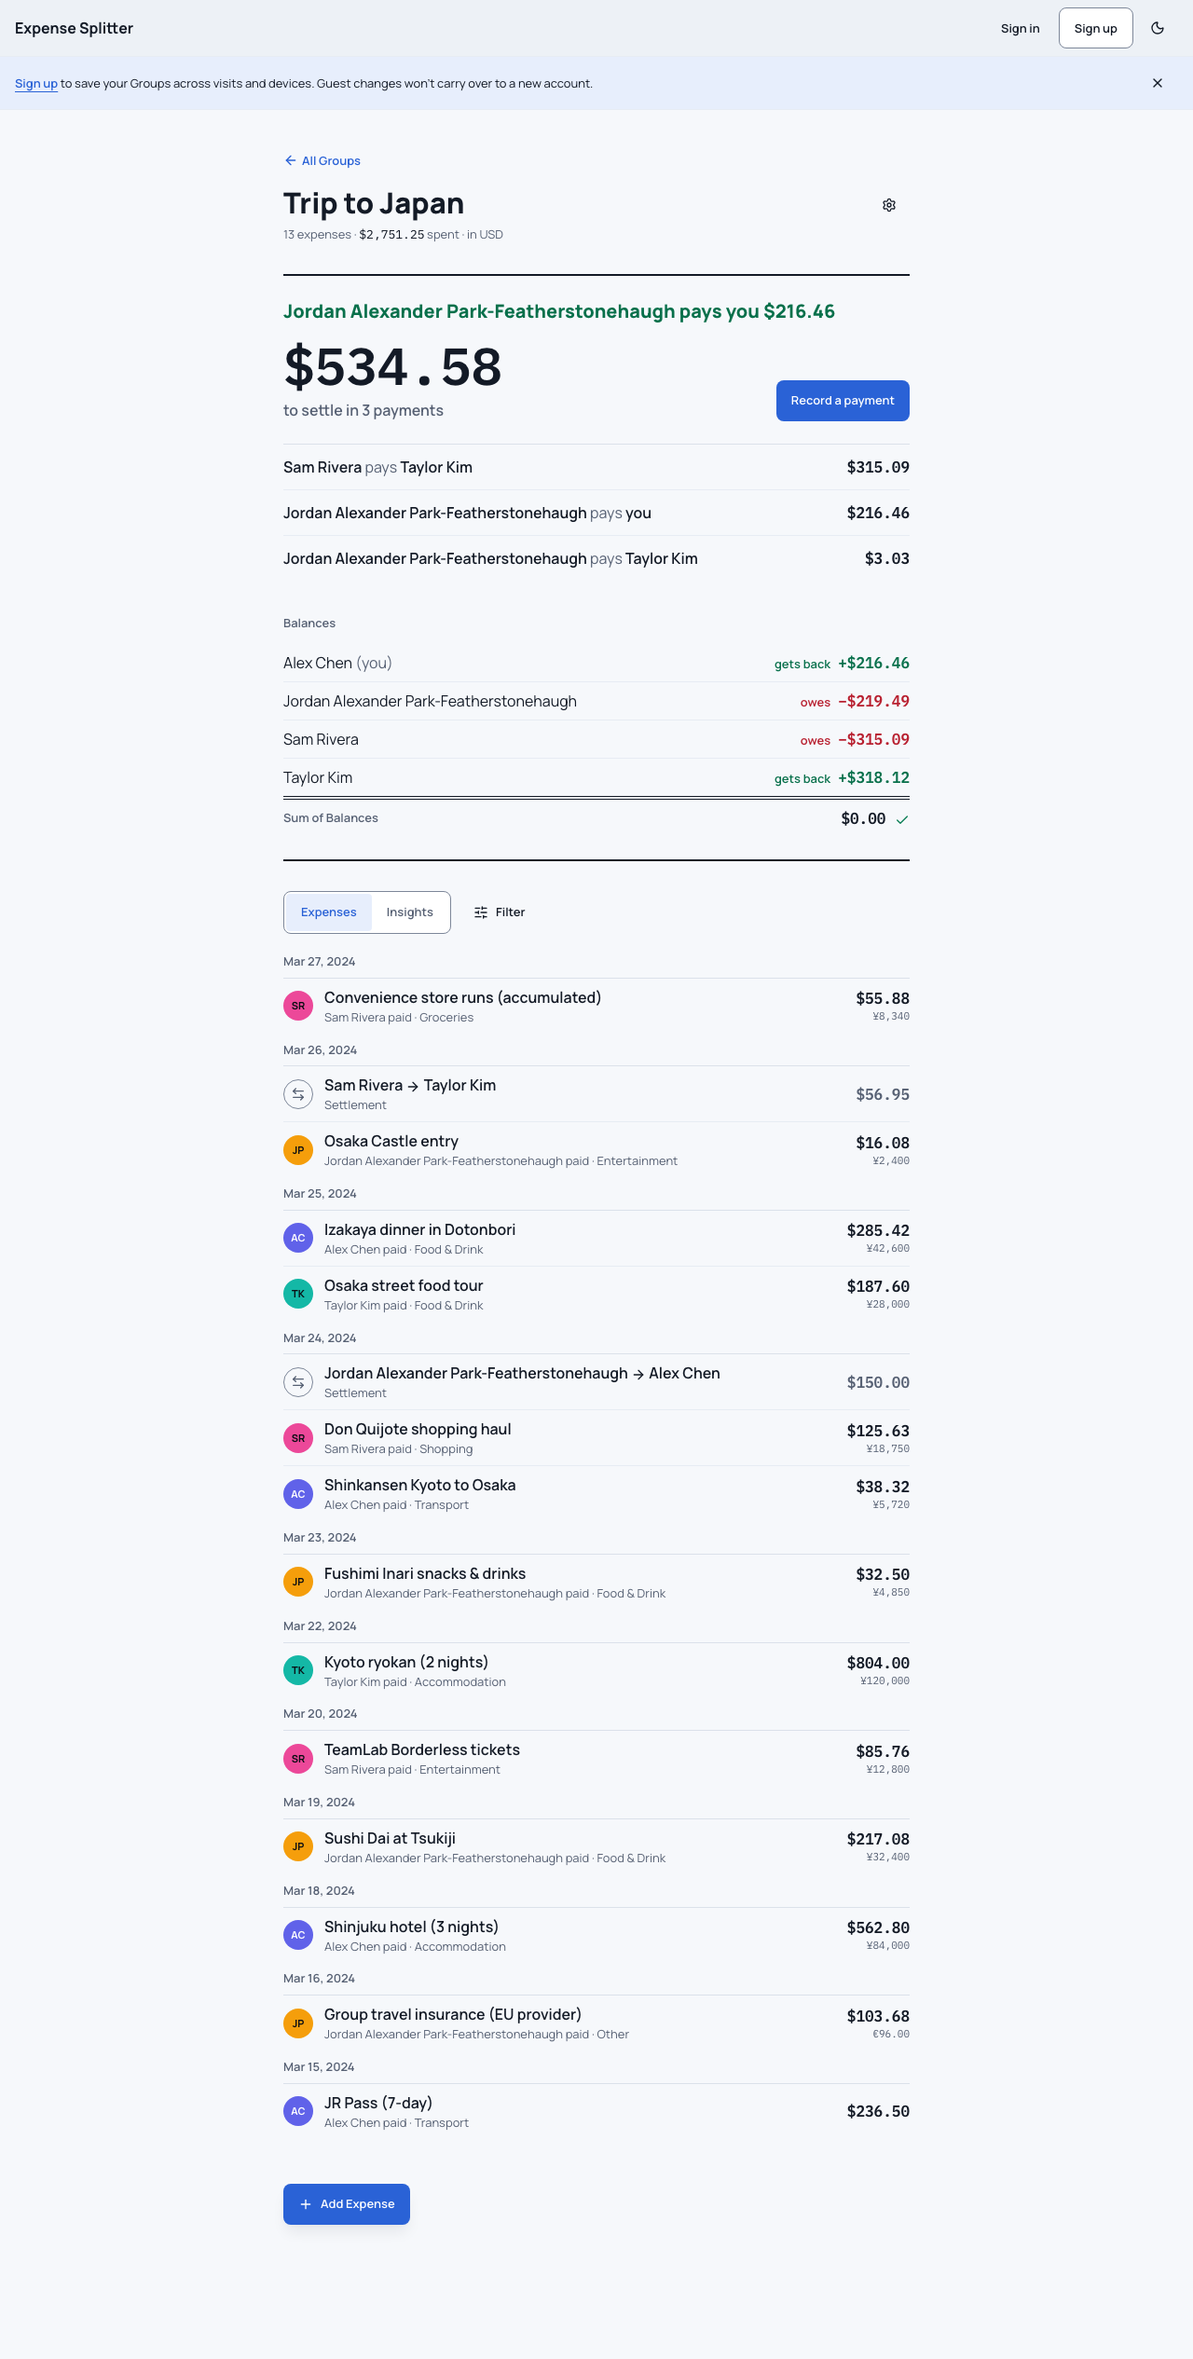
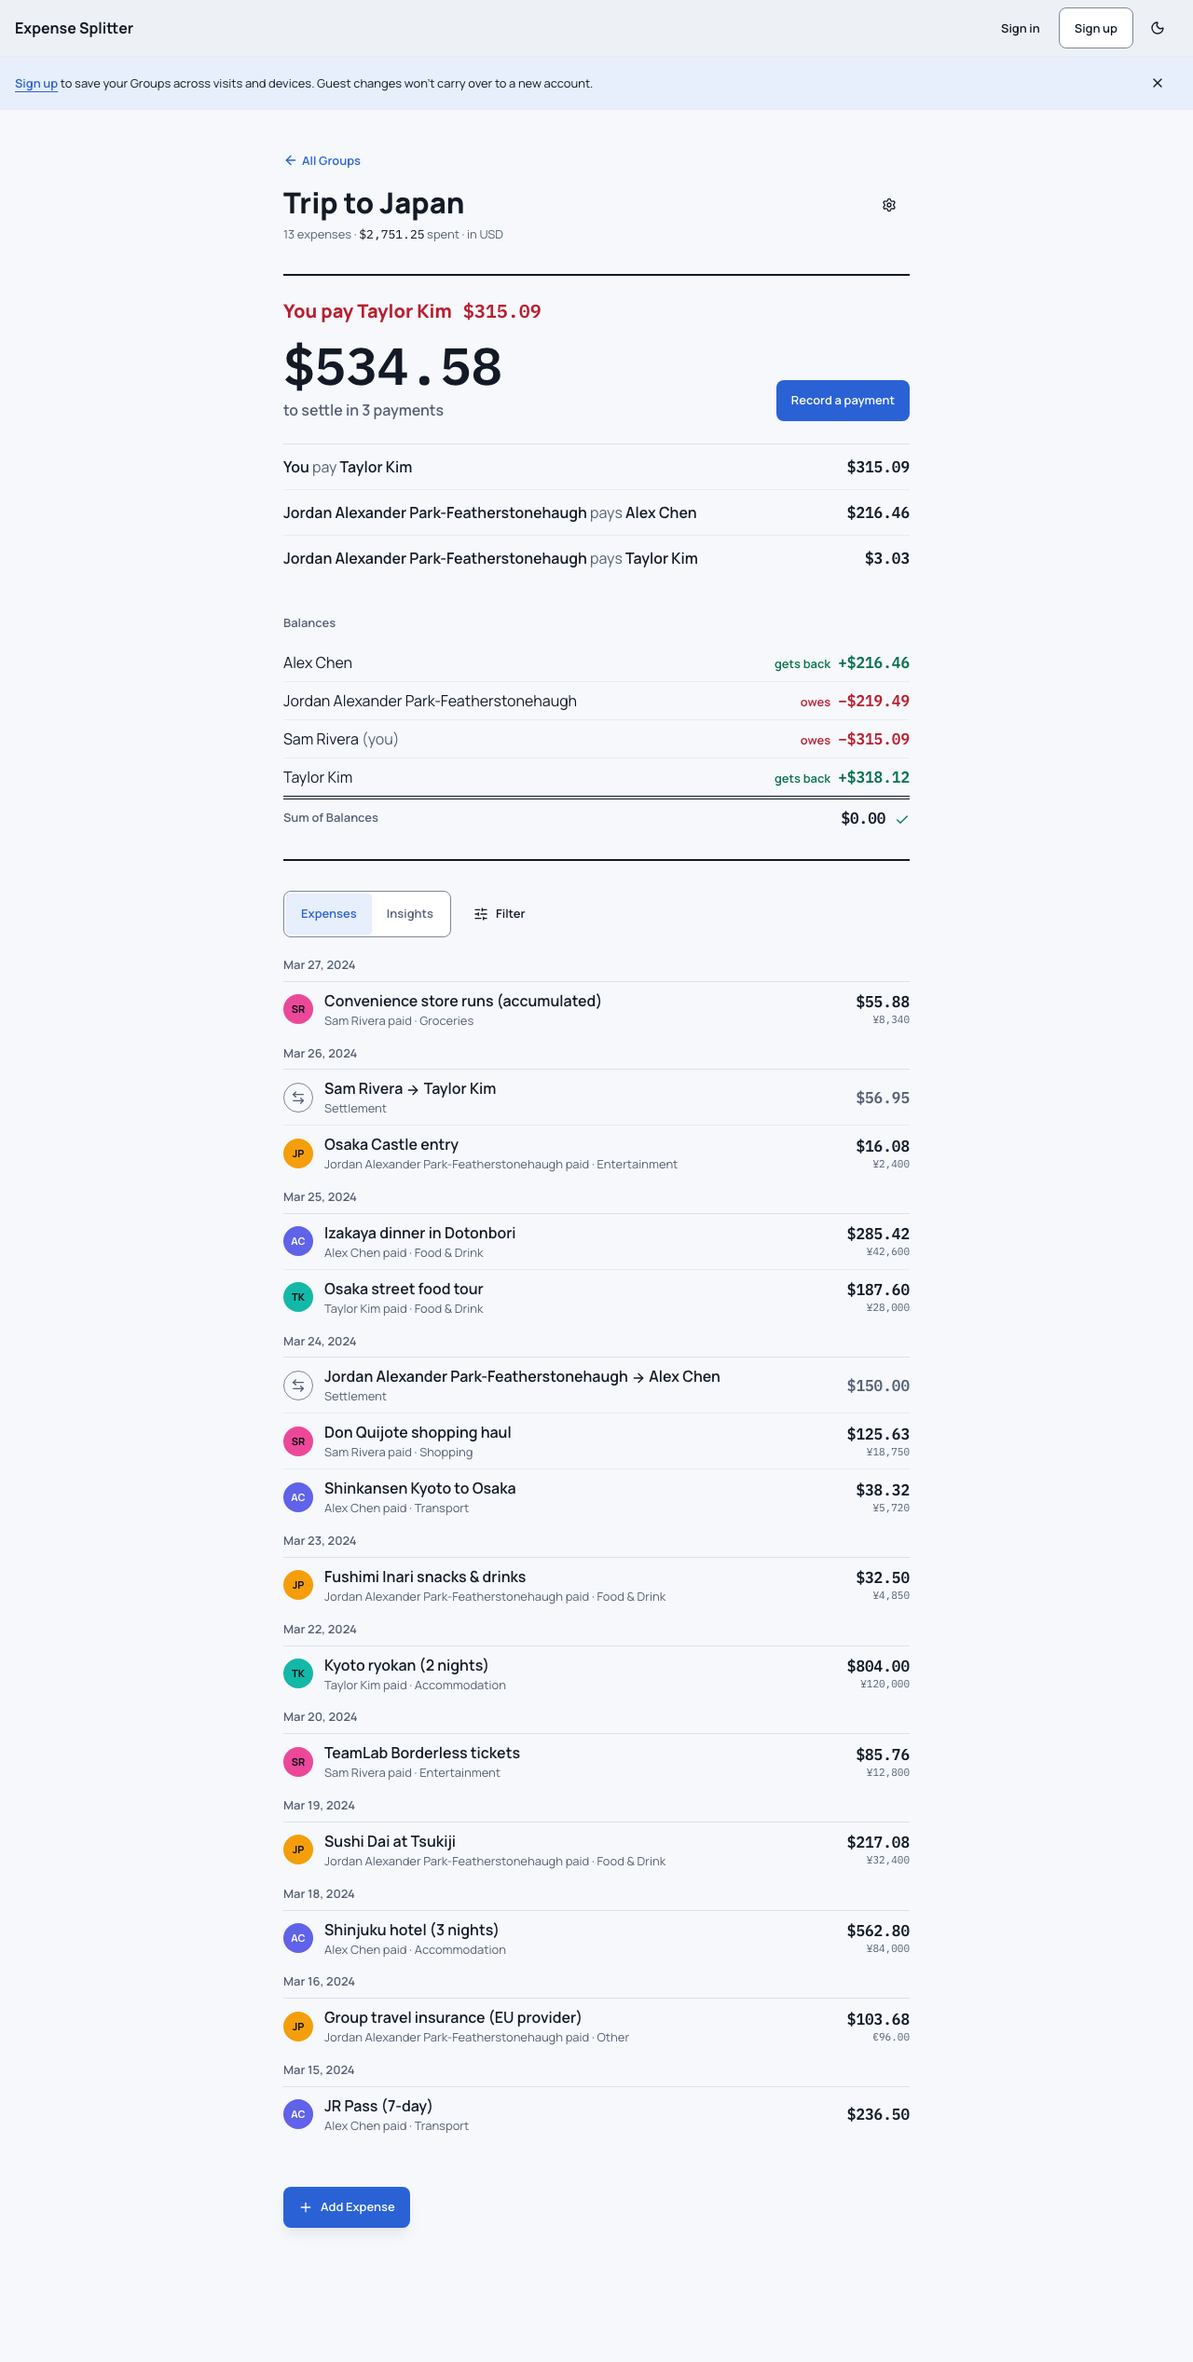
Show the signed-in User's own action first in every direction
Review fixes for the #19 prototype:
- ?you=1 now takes the seed Group's largest debtor as You, so the
  screenshots show "You pay Taylor Kim $315.09" rather than only the
  creditor case; "You pay" no longer reads "You pays".
- B and C put the personal line first, as the parent spec asks, in every
  state with Expenses; it also reports the User's own Small Change.
- Figures in the personal line are set in mono; tabs meet the 44px floor;
  "settled" reads "settled up".
- Screenshots add the Guest view of Open Debts for each direction.

diff --git a/src/components/group-page-prototype/prototype-data.ts b/src/components/group-page-prototype/prototype-data.ts
@@ -2,7 +2,6 @@
 // Derives the four settle-up hero states from a seed Group, in memory only.
 
 import { computeLedger, type GroupSnapshot, type Ledger, type Settlement, type SuggestedSettlement } from "@/domain";
-import { formatMoney } from "@/domain";
 
 export type HeroState = "open" | "small" | "settled" | "empty";
 export const HERO_STATES: HeroState[] = ["open", "small", "settled", "empty"];
@@ -45,38 +44,59 @@ export function groupInState(seed: GroupSnapshot, state: HeroState): GroupSnapsh
       ],
     };
   }
-  // Small Change: record every suggestion, the last one two cents short.
+  // Small Change: the seed Group has none of its own, so record every
+  // suggestion with the last one two minor units short (USD seed only).
   const payments = ledger.suggestions.map((p, i, all) =>
     i === all.length - 1 ? { ...p, amount: p.amount - 2 } : p,
   );
   return { ...group, settlements: [...group.settlements, ...settlementsFor(payments, "small")] };
 }
 
-export type HeroKind = HeroState;
-
-export function heroKind(ledger: Ledger): HeroKind {
+export function heroKind(ledger: Ledger): HeroState {
   if (ledger.expenseCount === 0) return "empty";
   if (ledger.settledUp) return "settled";
   if (ledger.suggestions.length === 0) return "small";
   return "open";
 }
 
-/** "You pay Taylor Kim $3.03", or null for a Guest or when You have nothing to do. */
+/** One clause of the personal line: words, then a figure set in mono. */
+export interface PersonalClause {
+  words: string;
+  amount?: number;
+}
+
+/**
+ * "You pay Taylor Kim $3.03" first, as the parent spec asks; null for a
+ * Guest or an empty Group.
+ */
 export function personalAction(
   group: GroupSnapshot,
   ledger: Ledger,
   youId: string | undefined,
-): { text: string; tone: "owe" | "owed" | "settled" } | null {
-  if (!youId) return null;
+): { tone: "owe" | "owed" | "settled"; clauses: PersonalClause[] } | null {
+  if (!youId || ledger.expenseCount === 0) return null;
   const name = (id: string) => group.members.find((m) => m.id === id)?.name ?? "Unknown";
-  const money = (n: number) => formatMoney(n, group.currency);
   const pays = ledger.suggestions.filter((s) => s.fromId === youId);
   if (pays.length > 0)
-    return { tone: "owe", text: pays.map((s) => `You pay ${name(s.toId)} ${money(s.amount)}`).join(" · ") };
+    return { tone: "owe", clauses: pays.map((s) => ({ words: `You pay ${name(s.toId)}`, amount: s.amount })) };
   const gets = ledger.suggestions.filter((s) => s.toId === youId);
   if (gets.length > 0)
-    return { tone: "owed", text: gets.map((s) => `${name(s.fromId)} pays you ${money(s.amount)}`).join(" · ") };
-  return { tone: "settled", text: "You have nothing to pay or collect" };
+    return { tone: "owed", clauses: gets.map((s) => ({ words: `${name(s.fromId)} pays you`, amount: s.amount })) };
+  const mine = ledger.balances.find((b) => b.memberId === youId)?.amount ?? 0;
+  if (mine < 0) return { tone: "owe", clauses: [{ words: "You owe Small Change of", amount: -mine }] };
+  if (mine > 0) return { tone: "owed", clauses: [{ words: "You get back Small Change of", amount: mine }] };
+  return { tone: "settled", clauses: [{ words: "You're settled up" }] };
+}
+
+/**
+ * The signed-in perspective: the seed Member with the largest debt that
+ * isn't the long-named one, so "You pay …" is what the screenshots show.
+ */
+export function pickYou(seed: GroupSnapshot): string {
+  const ledger = computeLedger(seed);
+  const debtors = ledger.balances.filter((b, i) => b.amount < 0 && seed.members[i] && i !== 1);
+  debtors.sort((a, b) => a.amount - b.amount);
+  return debtors[0]?.memberId ?? seed.members[0].id;
 }
 
 /** Total still to move between Members, in Group Currency. */

diff --git a/src/components/group-page-prototype/variant-c-focus.tsx b/src/components/group-page-prototype/variant-c-focus.tsx
@@ -11,6 +11,7 @@ import { computeLedger, formatMoney, type GroupSnapshot } from "@/domain";
 import { Button } from "@/components/ui/button";
 import { formatSignedMoney, pluralize } from "@/lib/format";
 import { cn } from "@/lib/utils";
+import { PersonalLine } from "./personal-line";
 import { ExpensesAndInsights, LedgerList, nameOf } from "./parts";
 import { heroKind, personalAction, smallChangeTotal } from "./prototype-data";
 
@@ -72,6 +73,7 @@ export function VariantC({ group, youId }: { group: GroupSnapshot; youId?: strin
         {tab === "overview" ? (
           <div className="flex flex-col gap-8">
             <section aria-label="Settle up" className="text-center">
+              {mine && <PersonalLine group={group} mine={mine} className="mb-3 text-lg font-extrabold" />}
               {kind === "settled" && (
                 <Check aria-hidden className="mx-auto mb-2 size-10 rounded-full bg-owed-subtle p-2 text-success" />
               )}
@@ -95,22 +97,14 @@ export function VariantC({ group, youId }: { group: GroupSnapshot; youId?: strin
 
               {kind === "open" && (
                 <div className="mx-auto mt-6 max-w-md rounded-lg border border-border bg-surface p-4 text-left">
-                  {mine && mine.tone !== "settled" ? (
-                    <>
-                      <p className="text-sm font-semibold text-text-secondary">Your next step</p>
-                      <p className={cn("mt-1 text-lg font-extrabold", mine.tone === "owe" ? "text-owe" : "text-owed")}>
-                        {mine.text}
-                      </p>
-                    </>
-                  ) : (
-                    <p className="text-sm font-semibold text-text-secondary">Suggested payments</p>
-                  )}
+                  <p className="text-sm font-semibold text-text-secondary">Suggested payments</p>
                   <ol className="mt-3 flex flex-col gap-1 text-sm">
                     {ledger.suggestions.map((s, i) => (
                       <li key={i} className="flex items-center justify-between gap-3">
                         <span className="min-w-0 break-words">
-                          {nameOf(group, s.fromId)} <ArrowRight aria-label="pays" className="inline size-3" />{" "}
-                          {nameOf(group, s.toId)}
+                          {s.fromId === youId ? "You" : nameOf(group, s.fromId)}{" "}
+                          <ArrowRight aria-label="pays" className="inline size-3" />{" "}
+                          {s.toId === youId ? "you" : nameOf(group, s.toId)}
                         </span>
                         <span className="amount font-semibold">{money(s.amount)}</span>
                       </li>
@@ -153,7 +147,7 @@ export function VariantC({ group, youId }: { group: GroupSnapshot; youId?: strin
                               b.amount === 0 && "text-text-secondary",
                             )}
                           >
-                            {b.amount > 0 ? "gets back " : b.amount < 0 ? "owes " : "settled "}
+                            {b.amount > 0 ? "gets back " : b.amount < 0 ? "owes " : "settled up "}
                             {formatSignedMoney(b.amount, group.currency)}
                           </span>
                         </div>

diff --git a/src/components/group-page-prototype/variant-b-workbench.tsx b/src/components/group-page-prototype/variant-b-workbench.tsx
@@ -13,6 +13,7 @@ import { MemberAvatar } from "@/components/member-avatar";
 import { Button } from "@/components/ui/button";
 import { describeBalance, pluralize } from "@/lib/format";
 import { cn } from "@/lib/utils";
+import { PersonalLine } from "./personal-line";
 import { ExpensesAndInsights, memberOf, nameOf } from "./parts";
 import { heroKind, personalAction, smallChangeTotal } from "./prototype-data";
 
@@ -58,6 +59,21 @@ export function VariantB({ group, youId }: { group: GroupSnapshot; youId?: strin
       <div className="grid gap-8 md:grid-cols-[20rem_minmax(0,1fr)]">
         <aside className="md:sticky md:top-4 md:self-start">
           <div className="flex flex-col gap-4 rounded-lg border border-border bg-surface p-4">
+            {mine && (
+              <div
+                className={cn(
+                  "rounded-md p-3",
+                  mine.tone === "owe" && "bg-owe-subtle",
+                  mine.tone === "owed" && "bg-owed-subtle",
+                  mine.tone === "settled" && "bg-bg-tertiary",
+                )}
+              >
+                <PersonalLine group={group} mine={mine} className="font-bold" />
+                {kind === "open" && mine.tone !== "settled" && (
+                  <Button className="mt-2 w-full">Record payment</Button>
+                )}
+              </div>
+            )}
             <div>
               <p className="text-sm font-semibold text-text-secondary">Settle up</p>
               <p className="flex items-center gap-2 text-xl font-extrabold">
@@ -67,22 +83,10 @@ export function VariantB({ group, youId }: { group: GroupSnapshot; youId?: strin
               </p>
             </div>
 
-            {mine && kind === "open" && mine.tone !== "settled" && (
-              <div
-                className={cn(
-                  "rounded-md p-3",
-                  mine.tone === "owe" ? "bg-owe-subtle text-owe" : "bg-owed-subtle text-owed",
-                )}
-              >
-                <p className="font-bold">{mine.text}</p>
-                <Button className="mt-2 w-full">Record payment</Button>
-              </div>
-            )}
-
             {kind === "open" && (
               <ol className="flex flex-col divide-y divide-border-subtle">
                 {ledger.suggestions
-                  .filter((s) => s.fromId !== youId)
+                  .filter((s) => s.fromId !== youId && s.toId !== youId)
                   .map((s, i) => (
                     <li key={i} className="flex items-center gap-2 py-2 text-sm">
                       <span className="min-w-0 flex-1 break-words">

diff --git a/src/components/group-page-prototype/group-page-prototype.tsx b/src/components/group-page-prototype/group-page-prototype.tsx
@@ -3,7 +3,7 @@
 // PROTOTYPE (JoshLiu111/issue-track#19): throwaway, never merged to main.
 // Three directions for the Group page on the existing Guest Group route,
 // switchable via ?variant=A|B|C, ?hero=open|small|settled|empty and
-// ?you=1 (signed-in perspective as the first Member) from a floating bar.
+// ?you=1 (signed-in perspective as the seed's largest debtor) from a floating bar.
 // Hero states are derived from the seed Group in memory; nothing is saved.
 
 import { useEffect } from "react";
@@ -11,12 +11,16 @@ import { usePathname, useRouter, useSearchParams } from "next/navigation";
 import { ChevronLeft, ChevronRight } from "lucide-react";
 import type { GroupSnapshot } from "@/domain";
 import { cn } from "@/lib/utils";
-import { groupInState, HERO_LABELS, HERO_STATES, type HeroState } from "./prototype-data";
+import { groupInState, pickYou, HERO_LABELS, HERO_STATES, type HeroState } from "./prototype-data";
 import { name as nameA, VariantA } from "./variant-a-statement";
 import { name as nameB, VariantB } from "./variant-b-workbench";
 import { name as nameC, VariantC } from "./variant-c-focus";
 
-const VARIANTS = { A: { name: nameA, C: VariantA }, B: { name: nameB, C: VariantB }, C: { name: nameC, C: VariantC } };
+const VARIANTS = {
+  A: { name: nameA, Component: VariantA },
+  B: { name: nameB, Component: VariantB },
+  C: { name: nameC, Component: VariantC },
+};
 type Key = keyof typeof VARIANTS;
 const KEYS = Object.keys(VARIANTS) as Key[];
 
@@ -26,12 +30,12 @@ export function GroupPagePrototype({ seed }: { seed: GroupSnapshot }) {
   const hero = (HERO_STATES.find((h) => h === params.get("hero")) ?? "open") as HeroState;
   const asYou = params.get("you") === "1";
   const group = groupInState(seed, hero);
-  const Variant = VARIANTS[variant].C;
+  const Variant = VARIANTS[variant].Component;
 
   return (
     <>
       {/* key: reset view state (tabs, filters) on every switch. */}
-      <Variant key={`${variant}-${hero}`} group={group} youId={asYou ? group.members[0].id : undefined} />
+      <Variant key={`${variant}-${hero}`} group={group} youId={asYou ? pickYou(seed) : undefined} />
       {process.env.NODE_ENV !== "production" && (
         <PrototypeSwitcher variant={variant} hero={hero} asYou={asYou} />
       )}

diff --git a/src/components/group-page-prototype/variant-a-statement.tsx b/src/components/group-page-prototype/variant-a-statement.tsx
@@ -10,7 +10,7 @@ import { ArrowLeft, Check, Plus, Settings } from "lucide-react";
 import { computeLedger, formatMoney, type GroupSnapshot } from "@/domain";
 import { Button } from "@/components/ui/button";
 import { formatSignedMoney, pluralize } from "@/lib/format";
-import { cn } from "@/lib/utils";
+import { PersonalLine } from "./personal-line";
 import { ExpensesAndInsights, nameOf, SignedFigure } from "./parts";
 import { heroKind, outstanding, personalAction, smallChangeTotal } from "./prototype-data";
 
@@ -53,17 +53,7 @@ export function VariantA({ group, youId }: { group: GroupSnapshot; youId?: strin
 
       {/* The statement summary: rules, not a card. */}
       <section aria-label="Settle up" className="border-y-2 border-text-primary py-6">
-        {mine && kind !== "empty" && (
-          <p
-            className={cn(
-              "mb-4 text-lg font-extrabold",
-              mine.tone === "owe" && "text-owe",
-              mine.tone === "owed" && "text-owed",
-            )}
-          >
-            {mine.text}
-          </p>
-        )}
+        {mine && <PersonalLine group={group} mine={mine} className="mb-4 text-lg font-extrabold" />}
         <div className="flex flex-wrap items-end justify-between gap-4">
           <p>
             <span className="amount block text-[2.75rem] leading-none font-semibold sm:text-[3.5rem]">
@@ -89,7 +79,7 @@ export function VariantA({ group, youId }: { group: GroupSnapshot; youId?: strin
               <li key={i} className="flex flex-wrap items-center justify-between gap-x-4 gap-y-1 py-3">
                 <span className="min-w-0 break-words">
                   <span className="font-semibold">{s.fromId === youId ? "You" : nameOf(group, s.fromId)}</span>
-                  <span className="text-text-secondary"> pays </span>
+                  <span className="text-text-secondary">{s.fromId === youId ? " pay " : " pays "}</span>
                   <span className="font-semibold">{s.toId === youId ? "you" : nameOf(group, s.toId)}</span>
                 </span>
                 <span className="amount font-semibold">{money(s.amount)}</span>

diff --git a/src/components/group-page-prototype/personal-line.tsx b/src/components/group-page-prototype/personal-line.tsx
@@ -1,0 +1,29 @@
+"use client";
+
+// PROTOTYPE (JoshLiu111/issue-track#19): the signed-in User's own action,
+// with every figure in mono.
+
+import { formatMoney, type GroupSnapshot } from "@/domain";
+import { cn } from "@/lib/utils";
+import type { personalAction } from "./prototype-data";
+
+export function PersonalLine({
+  group,
+  mine,
+  className,
+}: {
+  group: GroupSnapshot;
+  mine: NonNullable<ReturnType<typeof personalAction>>;
+  className?: string;
+}) {
+  return (
+    <p className={cn(mine.tone === "owe" && "text-owe", mine.tone === "owed" && "text-owed", className)}>
+      {mine.clauses.map((c, i) => (
+        <span key={i} className="block">
+          {c.words}
+          {c.amount !== undefined && <span className="amount"> {formatMoney(c.amount, group.currency)}</span>}
+        </span>
+      ))}
+    </p>
+  );
+}

diff --git a/src/components/group-page-prototype/parts.tsx b/src/components/group-page-prototype/parts.tsx
@@ -41,7 +41,7 @@ export function SignedFigure({
   group: GroupSnapshot;
   className?: string;
 }) {
-  const word = amount > 0 ? "gets back" : amount < 0 ? "owes" : "settled";
+  const word = amount > 0 ? "gets back" : amount < 0 ? "owes" : "settled up";
   return (
     <span
       className={cn(
@@ -178,7 +178,7 @@ export function ExpensesAndInsights({
                 aria-selected={view === v}
                 onClick={() => onView(v)}
                 className={cn(
-                  "min-h-10 rounded px-4 text-sm font-semibold capitalize",
+                  "min-h-11 rounded px-4 text-sm font-semibold capitalize",
                   view === v ? "bg-accent-subtle text-accent" : "text-text-secondary hover:bg-bg-tertiary",
                 )}
               >
